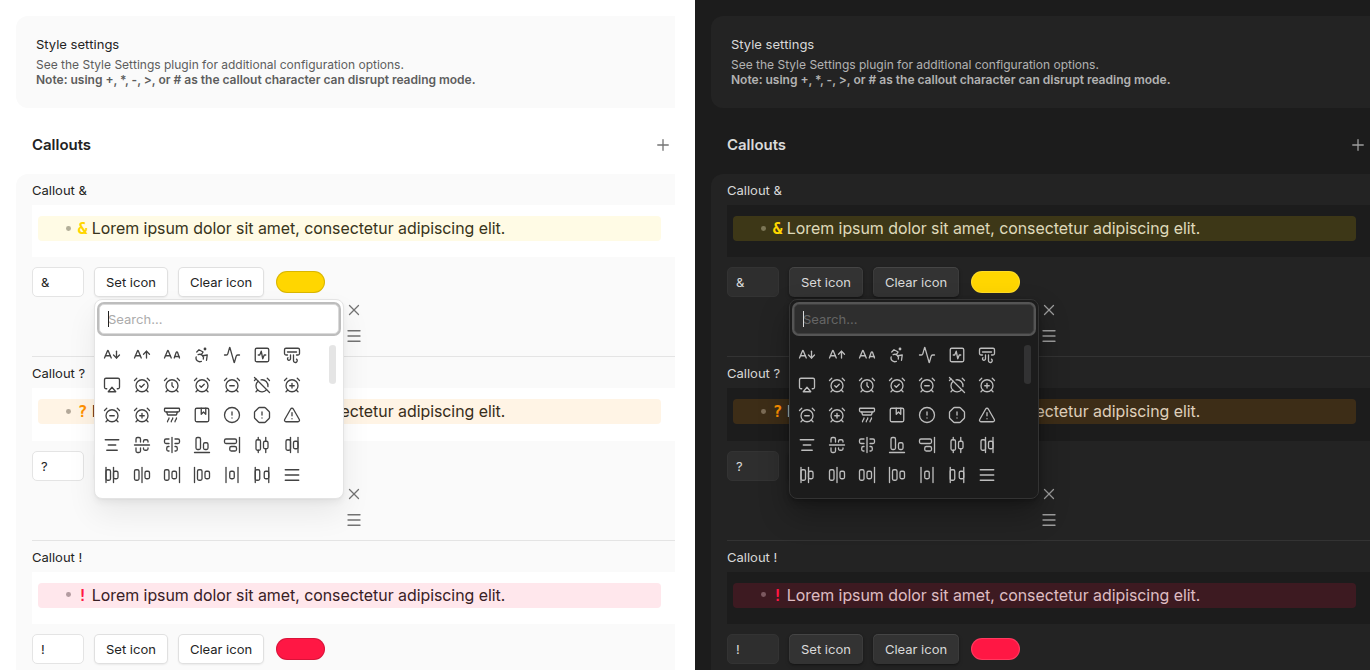
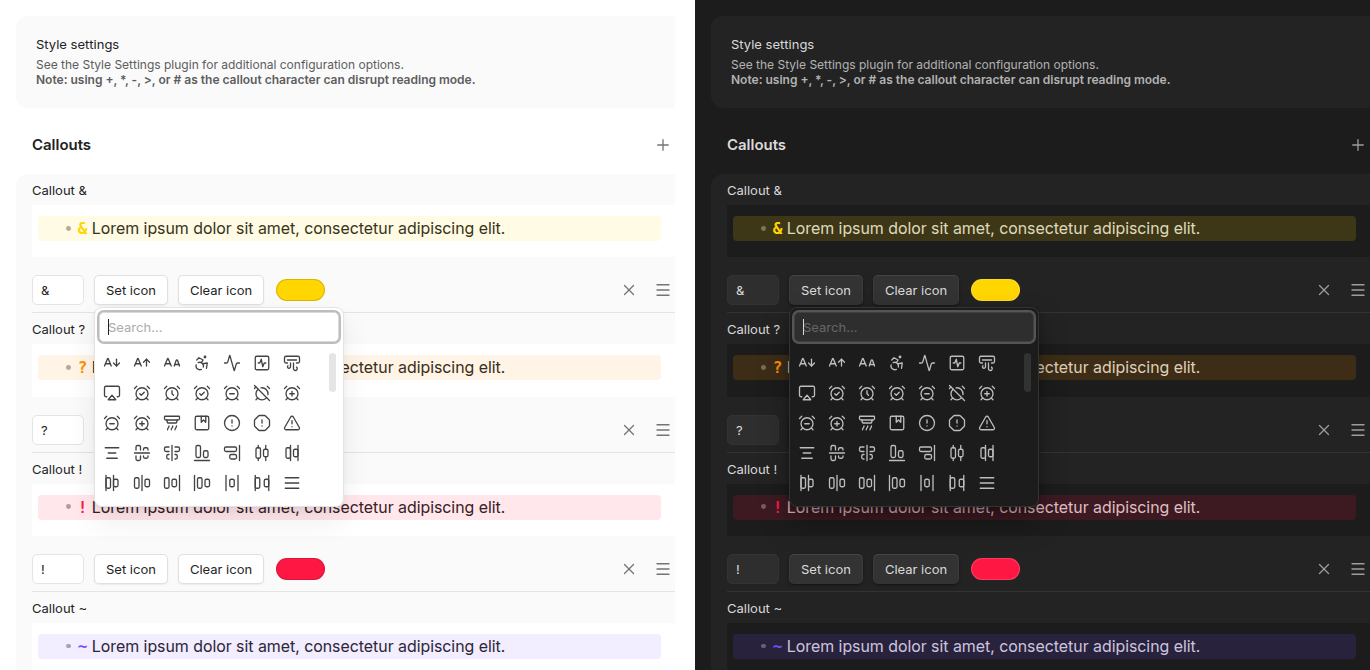
Put the delete and drag buttons back on the input row
The list API appends them into the same container the callout row renders
into, and that container was set to display: block so the preview could span
the full width rather than being squeezed into Obsidian's right-aligned
control column. Under block each button became a full-width box on a line of
its own, so a callout took four lines instead of two.

A wrapping flex row keeps the full-width preview and leaves the buttons
inline at the right edge, where the rest of Obsidian's list rows put them.
Written in terms of how much each part may grow rather than by naming the
buttons, so however many affordances the list adds, they all land on the
input row.

Only custom callouts were list items before, so this was easy to miss;
every callout is one now.

diff --git a/styles.css b/styles.css
@@ -302,11 +302,34 @@ settings:
 }
 
 .setting-item.lc-setting .setting-item-control {
-  display: block;
+  /* A wrapping row rather than `display: block`. The list API appends its
+     delete and drag-handle buttons into this same container, after the rows we
+     render, and under `block` each of them became a full-width box on a line
+     of its own instead of sitting inline. */
+  display: flex;
+  flex-wrap: wrap;
+  align-items: center;
   width: 100%;
   /* The control column right-aligns its contents by default, which would
      push the callout preview and its inputs to the right edge. */
   text-align: left;
+}
+
+/* The preview takes a row to itself, and the inputs then grow to fill the next
+   one -- which leaves the delete and drag buttons at its right edge, where the
+   rest of Obsidian's list rows put them. Written in terms of how much each
+   part may grow rather than by naming the buttons, so however many affordances
+   the list adds, they all land on the input row. */
+.setting-item.lc-setting .lc-callout-container {
+  flex: 1 0 100%;
+}
+
+.setting-item.lc-setting .lc-input-container {
+  flex: 1 1 auto;
+}
+
+.setting-item.lc-setting .setting-item-control > .extra-setting-button {
+  flex: 0 0 auto;
 }
 
 /* Inside a modal there is no .vertical-tab-content to position against, so
